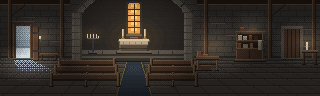
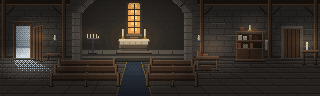
Templo B: cada coisa com um motivo (protótipo, terceira passada)
A revisão pergunta, de cada elemento, o que ele é e por que está ali: as mãos-francesas
retas em todos os postes (para cada vão que sustentam); as chamas soltas viram a vela no
pires em cima do armário e duas arandelas de ferro com vela; a folha da porta da rua passa a
ler como porta aberta (de quina, tábuas, ferragens, argola); a toalha pendurada num cravo;
no primeiro plano, as pontas da fileira de bancos mais próxima no lugar dos vasos avulsos.

diff --git a/ferramentas/prototipos/templo/b/desenho.py b/ferramentas/prototipos/templo/b/desenho.py
@@ -63,13 +63,32 @@ def paredes(px):
         px(x0, 0, x1 - x0, 4, "madeiraEsc")
         px(x0, 4, x1 - x0, 2, "madeira")
         px(x0, 4, x1 - x0, 1, "madeiraLuz")
-    for x0 in (8, 60, 204, 268, 312):
+    # os postes que seguram a viga, cada um com a mão-francesa reta (45°) para cada vão que sustenta: os do meio, dos
+    # dois lados; os do canto (junto da borda ou do arco), só para o lado do vão
+    for x0, lados in POSTES:
         px(x0, 0, 4, PAREDE, "madeira")
         px(x0, 0, 1, PAREDE, "madeiraLuz")
         px(x0 + 3, 0, 1, PAREDE, "madeiraEsc")
-    for x0 in (8, 268):
-        px.linha(x0 + 4, 14, x0 + 16, 4, "madeira")
-        px.linha(x0 + 4, 15, x0 + 16, 5, "madeiraEsc")
+        for lado in lados:
+            for i in range(8):
+                x = x0 + 4 + i if lado > 0 else x0 - 2 - i
+                px(x, 13 - i, 2, 1, "madeira")
+                px(x, 14 - i, 2, 1, "madeiraEsc")
+
+
+POSTES = [(2, (1,)), (62, (-1,)), (200, (1,)), (268, (-1, 1)), (314, (-1,))]  # x e os lados das mãos-francesas
+
+
+def arandela(px, x, base):
+    """A arandela de ferro na parede: a chapa presa, o braço, o copo e a vela (a chama vem na camada velas, em
+    (x, base - 7))."""
+    px(x + 2, base - 1, 2, 4, "ferro")           # a chapa na parede
+    px(x + 2, base - 1, 1, 4, "ferroLuz")
+    px(x - 1, base, 4, 1, "ferroLuz")            # o copo
+    px(x - 1, base + 1, 4, 1, "ferro")
+    px(x, base - 5, 2, 5, "cera")                # a vela
+    px(x + 1, base - 5, 1, 5, "ceraEsc")
+    px.p(x - 1, base - 2, "ceraEsc")             # o pingo de cera
 
 
 FILAS = [PAREDE, 60, 63, 67, 72, 78, 85, 93]  # as juntas transversais do piso: mais juntas no fundo
@@ -164,7 +183,7 @@ def presbiterio(px):
         px(xx, 34 + (xx % 3), 1, 4 - (xx % 3), "cera")
 
 
-VELAS = [(122, 28), (144, 28), (87, 33), (90, 32), (93, 33), (96, 32), (98, 33), (40, 34), (196, 34), (306, 41), (250, 29)]
+VELAS = [(122, 27), (144, 27), (87, 33), (90, 32), (93, 33), (96, 32), (98, 33), (54, 33), (198, 33), (306, 40), (249, 23)]
 
 
 def colunas(px):
@@ -213,29 +232,34 @@ def entrada(px):
     # a soleira de pedra, no chão do vão, saindo para dentro (o piso dela claro, a frente escura)
     px(x0 - 3, PAREDE, x1 - x0 + 6, 1, "pedraBLuz")
     px(x0 - 3, PAREDE + 1, x1 - x0 + 6, 1, "pedraBEsc")
-    # a folha aberta para dentro, com o pé no piso
-    px(x1 + 3, y0 + 1, 6, PAREDE + 1 - y0, "madeiraMeio")
-    px(x1 + 3, y0 + 1, 1, PAREDE + 1 - y0, "madeiraLuz")
-    px(x1 + 8, y0 + 1, 1, PAREDE + 1 - y0, "madeiraEsc")
-    for yy in (y0 + 6, PAREDE - 8):
-        px(x1 + 3, yy, 6, 2, "ferro")
-    px(x1 + 3, PAREDE + 2, 6, 1, "contato")
+    # a folha da porta, aberta para dentro, girando nas dobradiças do batente: a ponta livre vem para perto de quem
+    # olha (mais alta e mais baixa que o lado das dobradiças); as tábuas, as duas ferragens e a argola
+    h0, h1 = x1 + 3, x1 + 12
+    for x in range(h0, h1 + 1):
+        k = (x - h0) / (h1 - h0)
+        topo, pe = round(y0 + 1 - 2 * k), round(PAREDE + 2 * k)
+        px(x, topo, 1, pe - topo + 1, "madeiraEsc" if (x - h0) % 3 == 2 else "madeiraMeio")
+        px.p(x, topo, "madeiraLuz")
+        for yy in (y0 + 6, PAREDE - 7):  # as ferragens, seguindo a inclinação da folha
+            px.p(x, round(yy + (yy - (y0 + PAREDE) / 2) * 0.12 * k), "ferro")
+        px.p(x, pe + 1, "contato")
+    px(h0, y0 + 1, 1, PAREDE - y0, "madeiraLuz")
+    px.p(h1 - 2, (y0 + PAREDE) // 2, "ferroLuz")  # a argola
+    px.p(h1 - 2, (y0 + PAREDE) // 2 + 1, "ferro")
     # a luz do dia deitada no piso, abrindo para a frente e para a direita (a perspectiva do piso)
     for y in range(PAREDE + 2, PAREDE + 13):
         k = y - PAREDE - 2
         for x in range(x0 - 2 + k // 2, x1 + 3 + k * 2):
             if pont(x, y, 9 - k * 0.7):
                 px.p(x, y, "neveSombra")
-    px(39, 40, 3, 1, "ferro")  # a arandela
-    px(40, 38, 1, 4, "ferroLuz")
-    px(39, 36, 2, 3, "cera")
+    arandela(px, 54, 40)  # a arandela da entrada, acima do banquinho
     # o banquinho de esperar, encostado na parede, os pés no piso logo à frente dela
-    px(40, 53, 18, 2, "madeiraMeio")
-    px(40, 53, 18, 1, "madeiraLuz")
-    for xx in (41, 55):
+    px(46, 53, 14, 2, "madeiraMeio")
+    px(46, 53, 14, 1, "madeiraLuz")
+    for xx in (47, 57):
         px(xx, 55, 2, PAREDE + 2 - 55, "madeira")
         px(xx + 1, 55, 1, PAREDE + 2 - 55, "madeiraEsc")
-    px(40, PAREDE + 2, 18, 1, "contato")
+    px(46, PAREDE + 2, 14, 1, "contato")
 
 
 FILEIRAS = [(60, 68, (58, 116), (150, 194)), (66, 76, (54, 118), (148, 196)), (74, 86, (50, 120), (146, 198))]
@@ -306,9 +330,15 @@ def atendimento(px):
                             (240, 27, 4, 4, "barro"), (252, 28, 5, 3, "madeiraMeio")]:
         px(x, y, w, h, cor)
         px(x, y, w, 1, cor + "Luz" if cor + "Luz" in C else cor)
-    px(258, 40, 4, 10, "linho")                            # a toalha pendurada no lado
-    px(258, 40, 4, 1, "linhoLuz")
-    px(261, 41, 1, 9, "linhoSombra")
+    px(265, 39, 2, 1, "ferroLuz")                          # o cravo do lado do armário e a toalha pendurada nele
+    px(265, 40, 3, 10, "linho")
+    px(265, 40, 3, 1, "linhoLuz")
+    px(267, 41, 1, 9, "linhoSombra")
+    px(248, 30, 4, 1, "latao")                             # a vela no pires de latão, em cima do armário
+    px(248, 30, 1, 1, "lataoLuz")
+    px(249, 25, 2, 5, "cera")
+    px(250, 25, 1, 5, "ceraEsc")
+    arandela(px, 198, 40)                                  # a arandela da parede, junto da coluna
     # a porta lateral, de tábuas, no batente de pedra, com a soleira saindo um pouco para dentro
     d0, d1 = 284, 300
     px(d0 - 3, 26, d1 - d0 + 6, PAREDE - 26, "pedraBLuz")
@@ -443,17 +473,22 @@ def fumaca(i):
 
 
 def frente():
-    """As silhuetas da frente, só nos cantos de baixo, enquadrando sem cobrir apoio nenhum: o pote baixo à esquerda e a
-    jarra à direita, cortados pela borda."""
+    """O primeiro plano: as pontas da fileira de bancos mais perto de quem olha, nos dois cantos de baixo, cortadas pela
+    borda (quem entra está no fundo da nave); enquadram sem cobrir apoio nenhum."""
     t = Tela(QW, QH)
     px = Pincel(t)
-    v = "vulto"
-    for y in range(86, QH):  # o pote baixo à esquerda
-        meia = 8 * math.sqrt(max(0.0, 1 - ((y - 94) / 8) ** 2))
-        px(round(10 - meia), y, round(meia * 2), 1, v)
-    px(7, 85, 6, 2, v)
-    for y in range(84, QH):  # a jarra à direita
-        meia = 7 * math.sqrt(max(0.0, 1 - ((y - 92) / 9) ** 2))
-        px(round(312 - meia), y, round(meia * 2), 1, v)
-    px(309, 82, 6, 3, v)
+    v, vl = "vulto", "vultoLuz"
+    CAB = [  # a cabeceira de perto, mais alta que o encosto, com o alto arredondado e o recorte (um caractere por pixel)
+        ".lll.",
+        "lvvvv",
+        "lvvvv",
+        "lv.vv",
+        "lvvvv",
+    ]
+    for x0, x1, cab in ((0, 34, 30), (286, QW, 286)):
+        px(x0, 86, x1 - x0, 5, v)          # o encosto
+        px(x0, 86, x1 - x0, 1, vl)
+        px.grade(cab, 79, CAB, {"l": vl, "v": v})
+        px(cab, 84, 5, QH - 84, v)         # a cabeceira até o chão
+        px(x0 + (x1 - x0) // 2 - 1, 91, 3, QH - 91, v)  # o pé do meio
     return t

diff --git a/ferramentas/prototipos/templo/LEIA-ME.md b/ferramentas/prototipos/templo/LEIA-ME.md
@@ -142,7 +142,7 @@ própria.
   embaixo; os bancos em três fileiras pisando cada uma mais à frente, com o vão até o piso, as cabeceiras e um pé no
   meio; chão à vista entre as coisas;
 - as sombras de contato de um pixel, depois da geometria;
-- o primeiro plano só nos cantos (o pote baixo à esquerda, a jarra à direita); a caixa preta do meio saiu.
+- o primeiro plano só nos cantos; a caixa preta do meio saiu (os potes dos cantos viraram bancos na terceira passada).
 
 **O clérigo** (`b/figura.py`): a mesa acaba em x 219 e a barra do hábito começa em x 220, com 2 px de chão entre o pé
 da mesa e a roupa; o hábito passou a uma lã crua acinzentada (o pé da mesa é madeira escura e quente) e o pano ficou
@@ -158,3 +158,24 @@ voltar com um relógio só, a pose parada, sem erros no console.
 **Limites:** o rosto do clérigo continua de poucos pixels (a escala da referência); o piso não segue uma perspectiva
 matemática exata (as juntas convergem para um ponto só e as transversais foram postas à mão), de propósito, pela
 leitura no tamanho do jogo.
+
+## B, terceira passada (28/10/2026): cada coisa com um motivo
+
+**O que o Jean disse:** gostou; pediu para perguntar, de cada coisa na tela, o que ela é e por que está ali. Os postes
+tinham "braços" só em alguns, e tortos; uma chama solta em cima do armário; ao lado da porta da rua, um sarrafo que
+não lia como porta; outra chama minúscula perto do clérigo; os dois vasos pretos da frente, avulsos.
+
+| O quê | Antes | Agora |
+|---|---|---|
+| os postes do vigamento | cinco, só dois com escora, tortas | cada um com a mão-francesa reta (45°) para cada vão que sustenta; os de canto, só para o lado do vão |
+| a chama em cima do armário | sem vela | a vela num pires de latão em cima da cornija (a luz do canto do atendimento) |
+| a chama perto do clérigo | solta junto da coluna | uma arandela de ferro com a vela, presa no poste; a da entrada no mesmo desenho, acima do banquinho |
+| ao lado da porta da rua | uma tábua de 5 px | a folha da porta aberta para dentro, de quina: a ponta livre mais perto, as tábuas, as duas ferragens e a argola |
+| a toalha | por cima das prateleiras | num cravo do lado de fora do armário |
+| o primeiro plano | dois vasos pretos avulsos | as pontas da fileira de bancos mais perto de quem olha, cortadas pela borda, com a cabeceira dos bancos da nave |
+
+O resto foi conferido com a mesma pergunta e fica: o altar com o livro e as velas, o castiçal de chão, a jarra e a
+bacia (a água para limpar), a caixa dos panos, a mesinha do incenso, o banquinho de esperar, a passadeira.
+
+**Conferido:** no jogo, pela demonstração, nas duas resoluções (o interior, os pontos, os serviços, a Saída e o Esc,
+ninguém precisando, sem ouro, o relógio, a pose parada, sem erros no console).

diff --git a/roadmapIDEIAS/00-COMECE-AQUI.md b/roadmapIDEIAS/00-COMECE-AQUI.md
@@ -8269,3 +8269,13 @@ Tudo no protótipo (`ferramentas/prototipos/hud/LEIA-ME.md`, as seções de mesm
 - **Conferido:** o espaço sozinho e a cena ampliados; as poses; no jogo, pela demonstração, nas duas resoluções (o
   interior, os pontos, os serviços, as duas candidatas, a Saída e o Esc, ninguém precisando, sem ouro, o relógio, a pose
   parada, sem erros no console). Esperando a avaliação do Jean.
+
+### 28/10/2026 (data do computador local) — Templo B: cada coisa com um motivo (protótipo, terceira passada)
+
+- **Avaliação do Jean:** gostou; pediu que tudo na tela tenha motivo para estar ali (os postes com "braços" só em
+  alguns e tortos, chamas soltas, a porta que lia como sarrafo, os vasos pretos avulsos), com um primeiro plano que
+  traga mais a igreja de uma cidade mediana sem atrapalhar a vista.
+- **Feito (só no protótipo):** as mãos-francesas retas e coerentes em todos os postes; as chamas soltas viraram a vela
+  no pires em cima do armário e duas arandelas de ferro com vela; a folha da porta da rua aberta, de quina, com tábuas,
+  ferragens e argola; a toalha num cravo; no primeiro plano, as pontas da fileira de bancos mais próxima no lugar dos
+  vasos. O LEIA-ME do protótipo tem a tabela. Conferido no jogo nas duas resoluções. Integração não autorizada.
